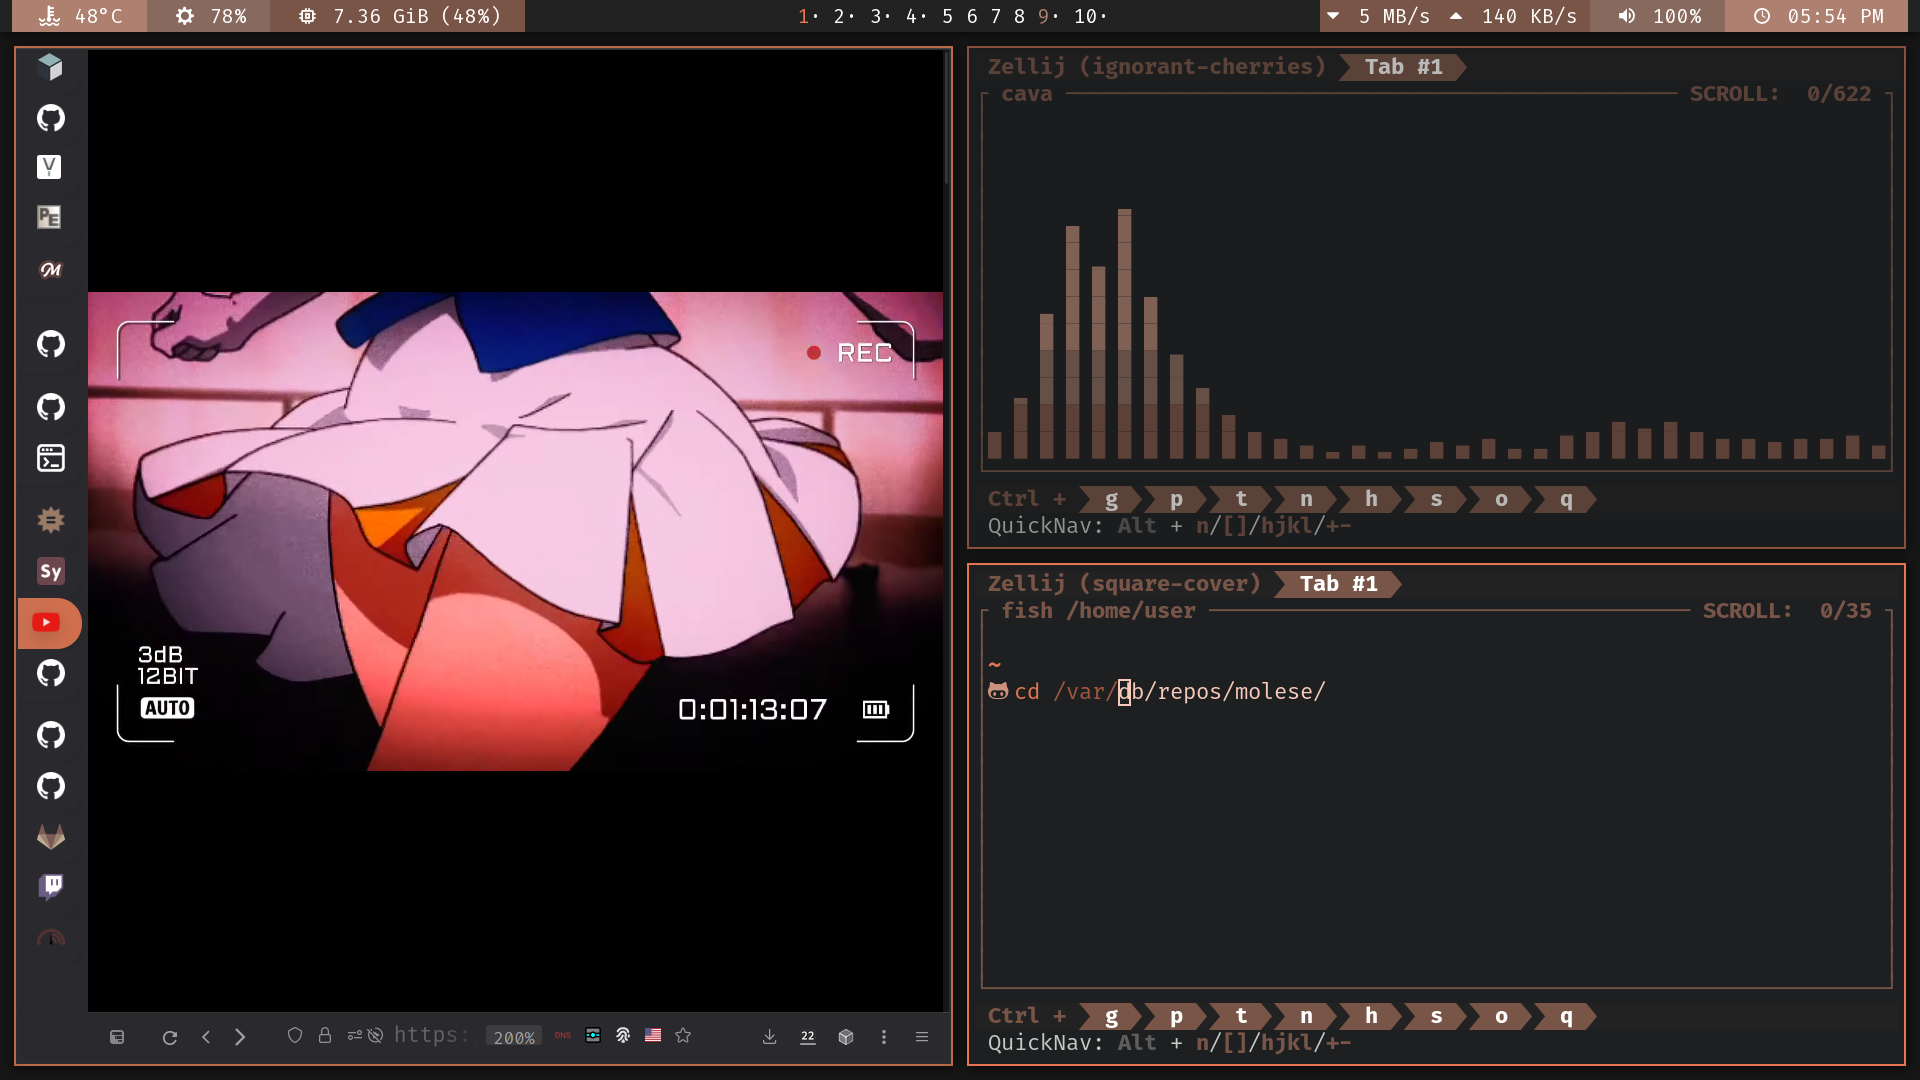
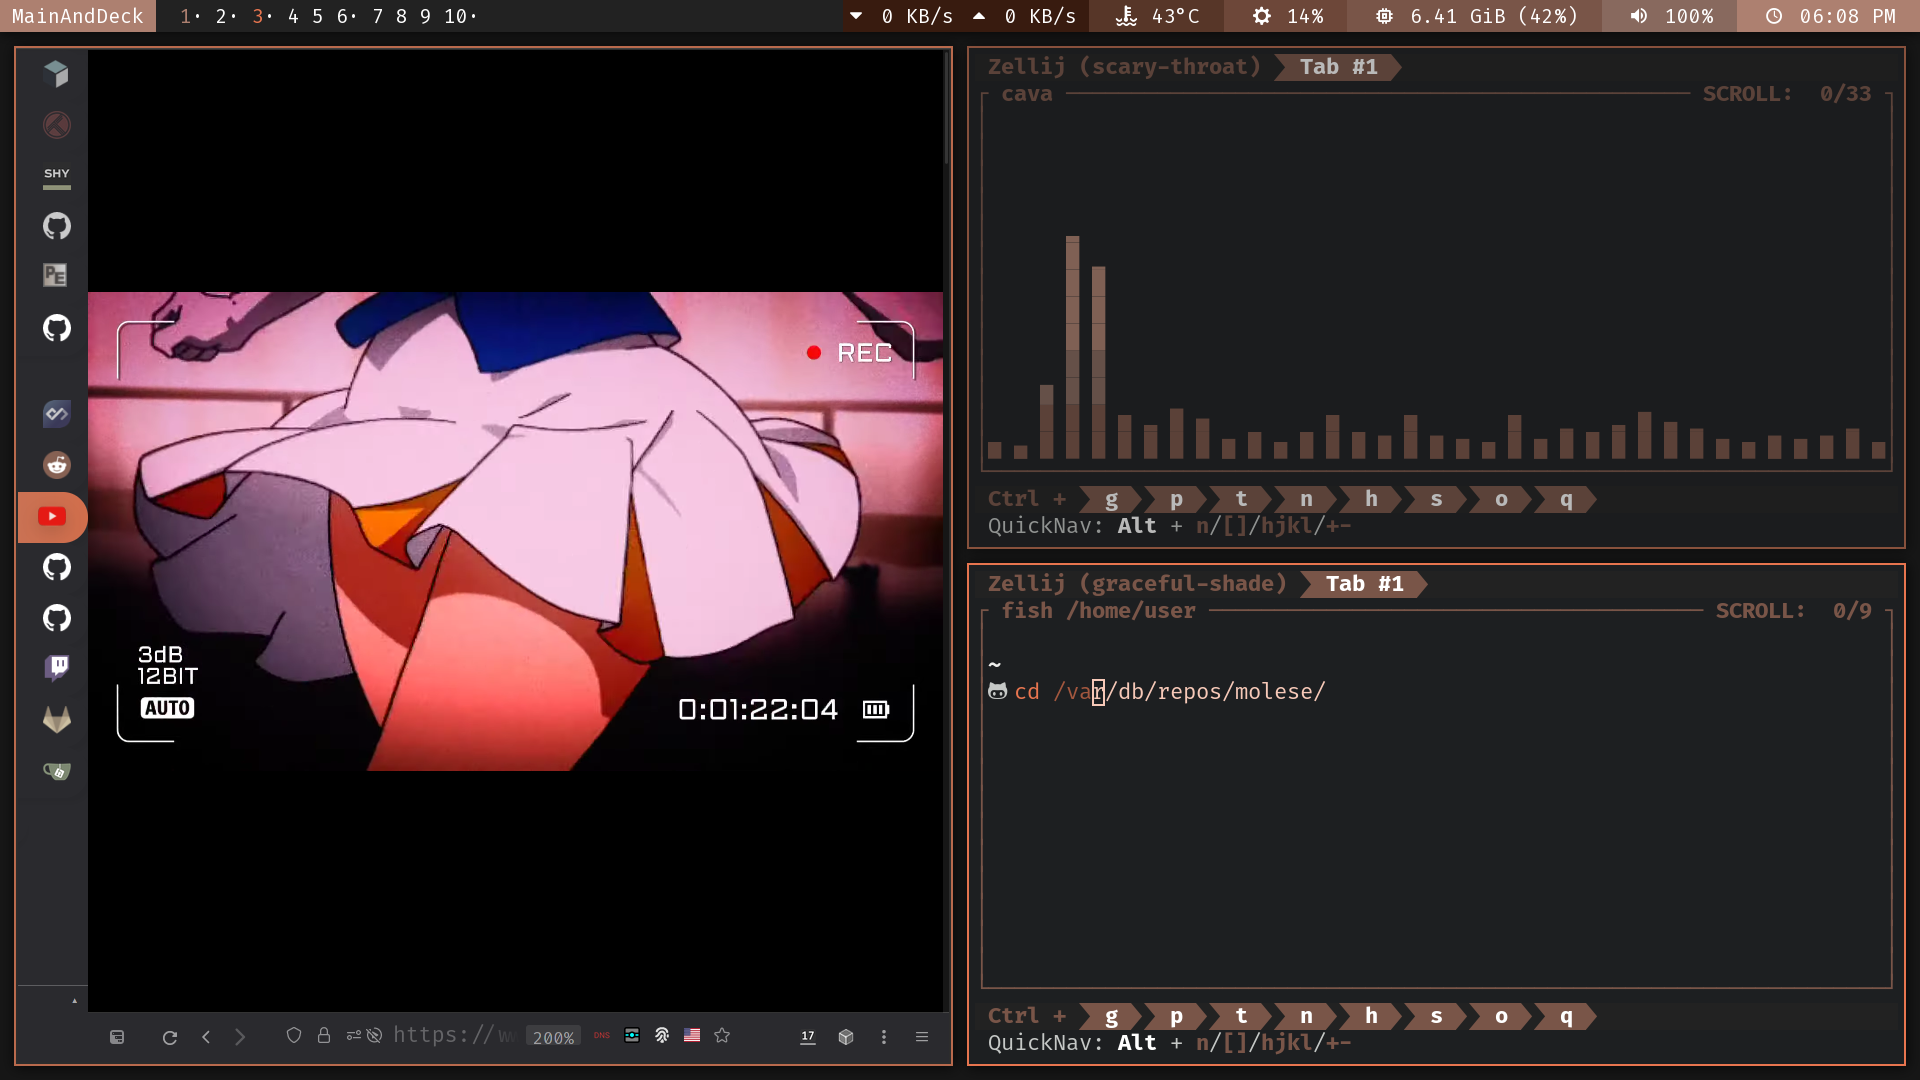
Bump Molese them to v2.1.0 (#51)
* Bump Molese them to v2.1.0

* known.toml: bump version to 2.1.0 of Molese theme

diff --git a/README.md b/README.md
@@ -89,6 +89,7 @@ Screenshots of the themes currently available:
 ![Molese-0](screenshots/molese-0.png)
 ![Molese-1](screenshots/molese-1.png)
 ![Molese-2](screenshots/molese-2.png)
+![Molese-3](screenshots/molese-3.png)
 
 ### SpaceJelly
 
